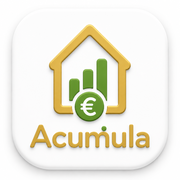
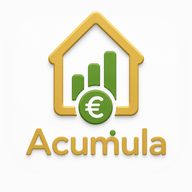
Iconos a sangre (Por dónde voy, Acumula, Activala) y un poco de relieve en los marcos del Grupo Saneas

Changed region(s): [[0.1111, 0.0556, 0.8889, 0.8333], [0.0556, 0.25, 0.9444, 0.9722], [0.9167, 0.25, 0.9444, 0.7222]]

diff --git a/assets/js/grupo-saneas.js b/assets/js/grupo-saneas.js
@@ -122,7 +122,9 @@ var GrupoSaneas = (function(){
   }
 
   function porId(id){ var l=todas(); for(var i=0;i<l.length;i++) if(l[i].id===id) return l[i]; return null; }
-  function src(m){ return m.logo ? (CFG.logos+m.logo) : ''; }
+  // ?v= en los iconos: al cambiar uno (16/10/2026, iconos a sangre) nadie se queda con el viejo en caché
+  var LOGOS_V = '2';
+  function src(m){ return m.logo ? (CFG.logos+m.logo+'?v='+LOGOS_V) : ''; }
   // Marcas sin PNG (los sub-productos): baldosa naranja con dos figuras,
   // una detrás de otra — se entiende de un vistazo que son personas.
   var SVG_PERSONAS = '<svg viewBox="0 0 24 24" fill="none" stroke="#fff" stroke-width="2" '
@@ -173,7 +175,7 @@ var GrupoSaneas = (function(){
       '.gs-qr-pie{font-size:14px;color:#3d4f59;margin:0 6px 16px}',
       '.gs-ir.gs-wa{background:#25D366}',
       '.gs-fila img{width:52px;height:52px;border-radius:14px;object-fit:cover;flex:none;background:#fff;',
-        'box-shadow:0 3px 10px rgba(16,40,48,.12)}',
+        'box-shadow:0 1px 2px rgba(16,40,48,.18),0 4px 12px rgba(16,40,48,.14);outline:1px solid rgba(16,40,48,.10);outline-offset:-1px}',
       '.gs-tx{min-width:0;text-align:left}',
       '.gs-tx b{display:block;font-size:17px;font-weight:800;color:#22313a;line-height:1.25}',
       '.gs-tx span{display:block;font-size:16px;color:#3d4f59;line-height:1.55;margin-top:5px}',
@@ -183,11 +185,11 @@ var GrupoSaneas = (function(){
       '.gs-item{display:flex;flex-direction:column;align-items:center;gap:7px;background:none;border:0;',
         'padding:0;cursor:pointer;font-family:inherit}',
       '.gs-item img{width:60px;height:60px;border-radius:16px;object-fit:cover;background:#fff;',
-        'box-shadow:0 4px 12px rgba(16,40,48,.16)}',
+        'box-shadow:0 1px 2px rgba(16,40,48,.2),0 5px 14px rgba(16,40,48,.16);outline:1px solid rgba(16,40,48,.10);outline-offset:-1px}',
       '.gs-item b{font-size:14px;font-weight:700;color:#22313a;line-height:1.25;text-align:center}',
       '.gs-ficha{text-align:center;padding:6px 4px 2px}',
       '.gs-ficha img{width:96px;height:96px;border-radius:24px;object-fit:cover;background:#fff;',
-        'box-shadow:0 8px 22px rgba(16,40,48,.2)}',
+        'box-shadow:0 2px 4px rgba(16,40,48,.2),0 10px 24px rgba(16,40,48,.2);outline:1px solid rgba(16,40,48,.10);outline-offset:-1px}',
       '.gs-ficha h3{font-size:24px;font-weight:800;color:#22313a;margin:14px 0 8px}',
       '.gs-ficha p{font-size:17px;color:#3d4f59;line-height:1.55;margin:0 6px 18px}',
       '.gs-ir{display:block;background:#3890a4;color:#fff;border:0;border-radius:14px;padding:14px;',

diff --git a/index.html b/index.html
@@ -1365,7 +1365,7 @@ document.querySelectorAll('[data-count]').forEach(el => counterObserver.observe(
 </script>
 
 <script src="/assets/telemetria.js" defer></script>
-<script src="/assets/js/grupo-saneas.js?v=1.14"></script>
+<script src="/assets/js/grupo-saneas.js?v=1.15"></script>
 <script>GrupoSaneas.init({actual:"saneas",logos:"/assets/img/",barra:"nav",extras:[{id:"academia",nombre:"Academia Saneas",url:"/academia",tipo:"un programa",texto:"Si te gusta el mundo de la nutrición, ahora tú también puedes. Más fácil que nunca."}]});
 /* El logo también abre el grupo, además de la pastilla de la cabecera */
 document.querySelectorAll(".nav-logo").forEach(function(e){e.style.cursor="pointer";e.setAttribute("title","El grupo Saneas");e.addEventListener("click",function(){GrupoSaneas.abrirMenu();});});

diff --git a/asesorias.html b/asesorias.html
@@ -816,7 +816,7 @@ function solOK(){
 </script>
 
 <script src="/assets/telemetria.js" defer></script>
-<script src="/assets/js/grupo-saneas.js?v=1.14"></script>
+<script src="/assets/js/grupo-saneas.js?v=1.15"></script>
 <script>GrupoSaneas.init({actual:"saneas",logos:"/assets/img/",barra:"nav",extras:[{id:"academia",nombre:"Academia Saneas",url:"/academia",tipo:"un programa",texto:"Si te gusta el mundo de la nutrición, ahora tú también puedes. Más fácil que nunca."}]});
 /* El logo también abre el grupo, además de la pastilla de la cabecera */
 document.querySelectorAll(".nav-logo").forEach(function(e){e.style.cursor="pointer";e.setAttribute("title","El grupo Saneas");e.addEventListener("click",function(){GrupoSaneas.abrirMenu();});});
